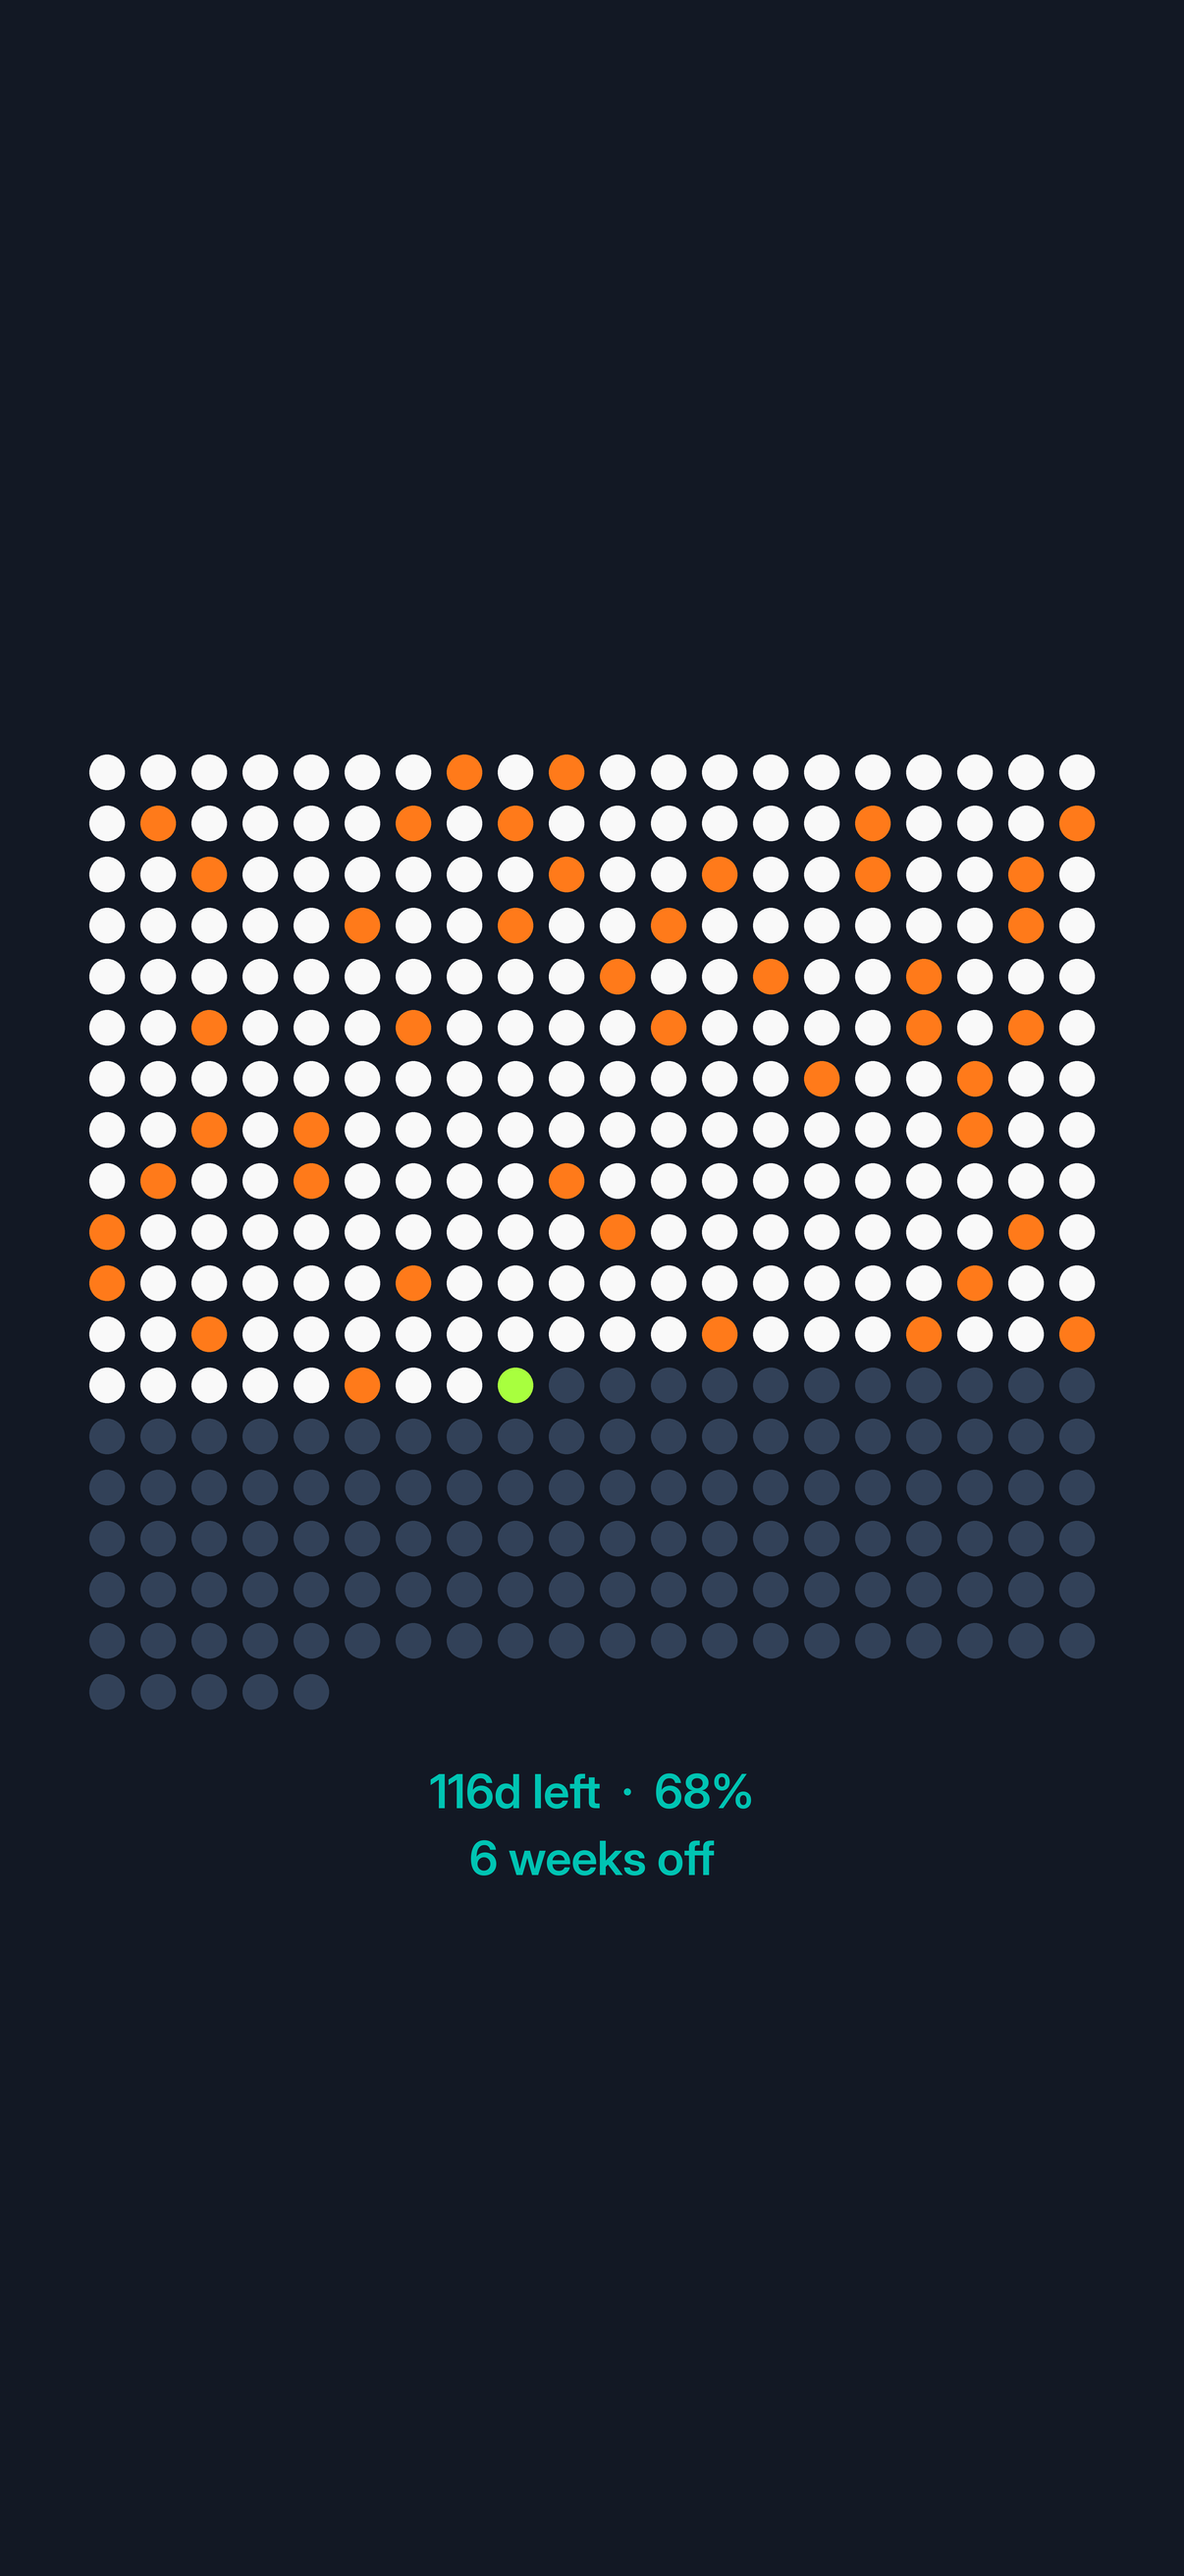
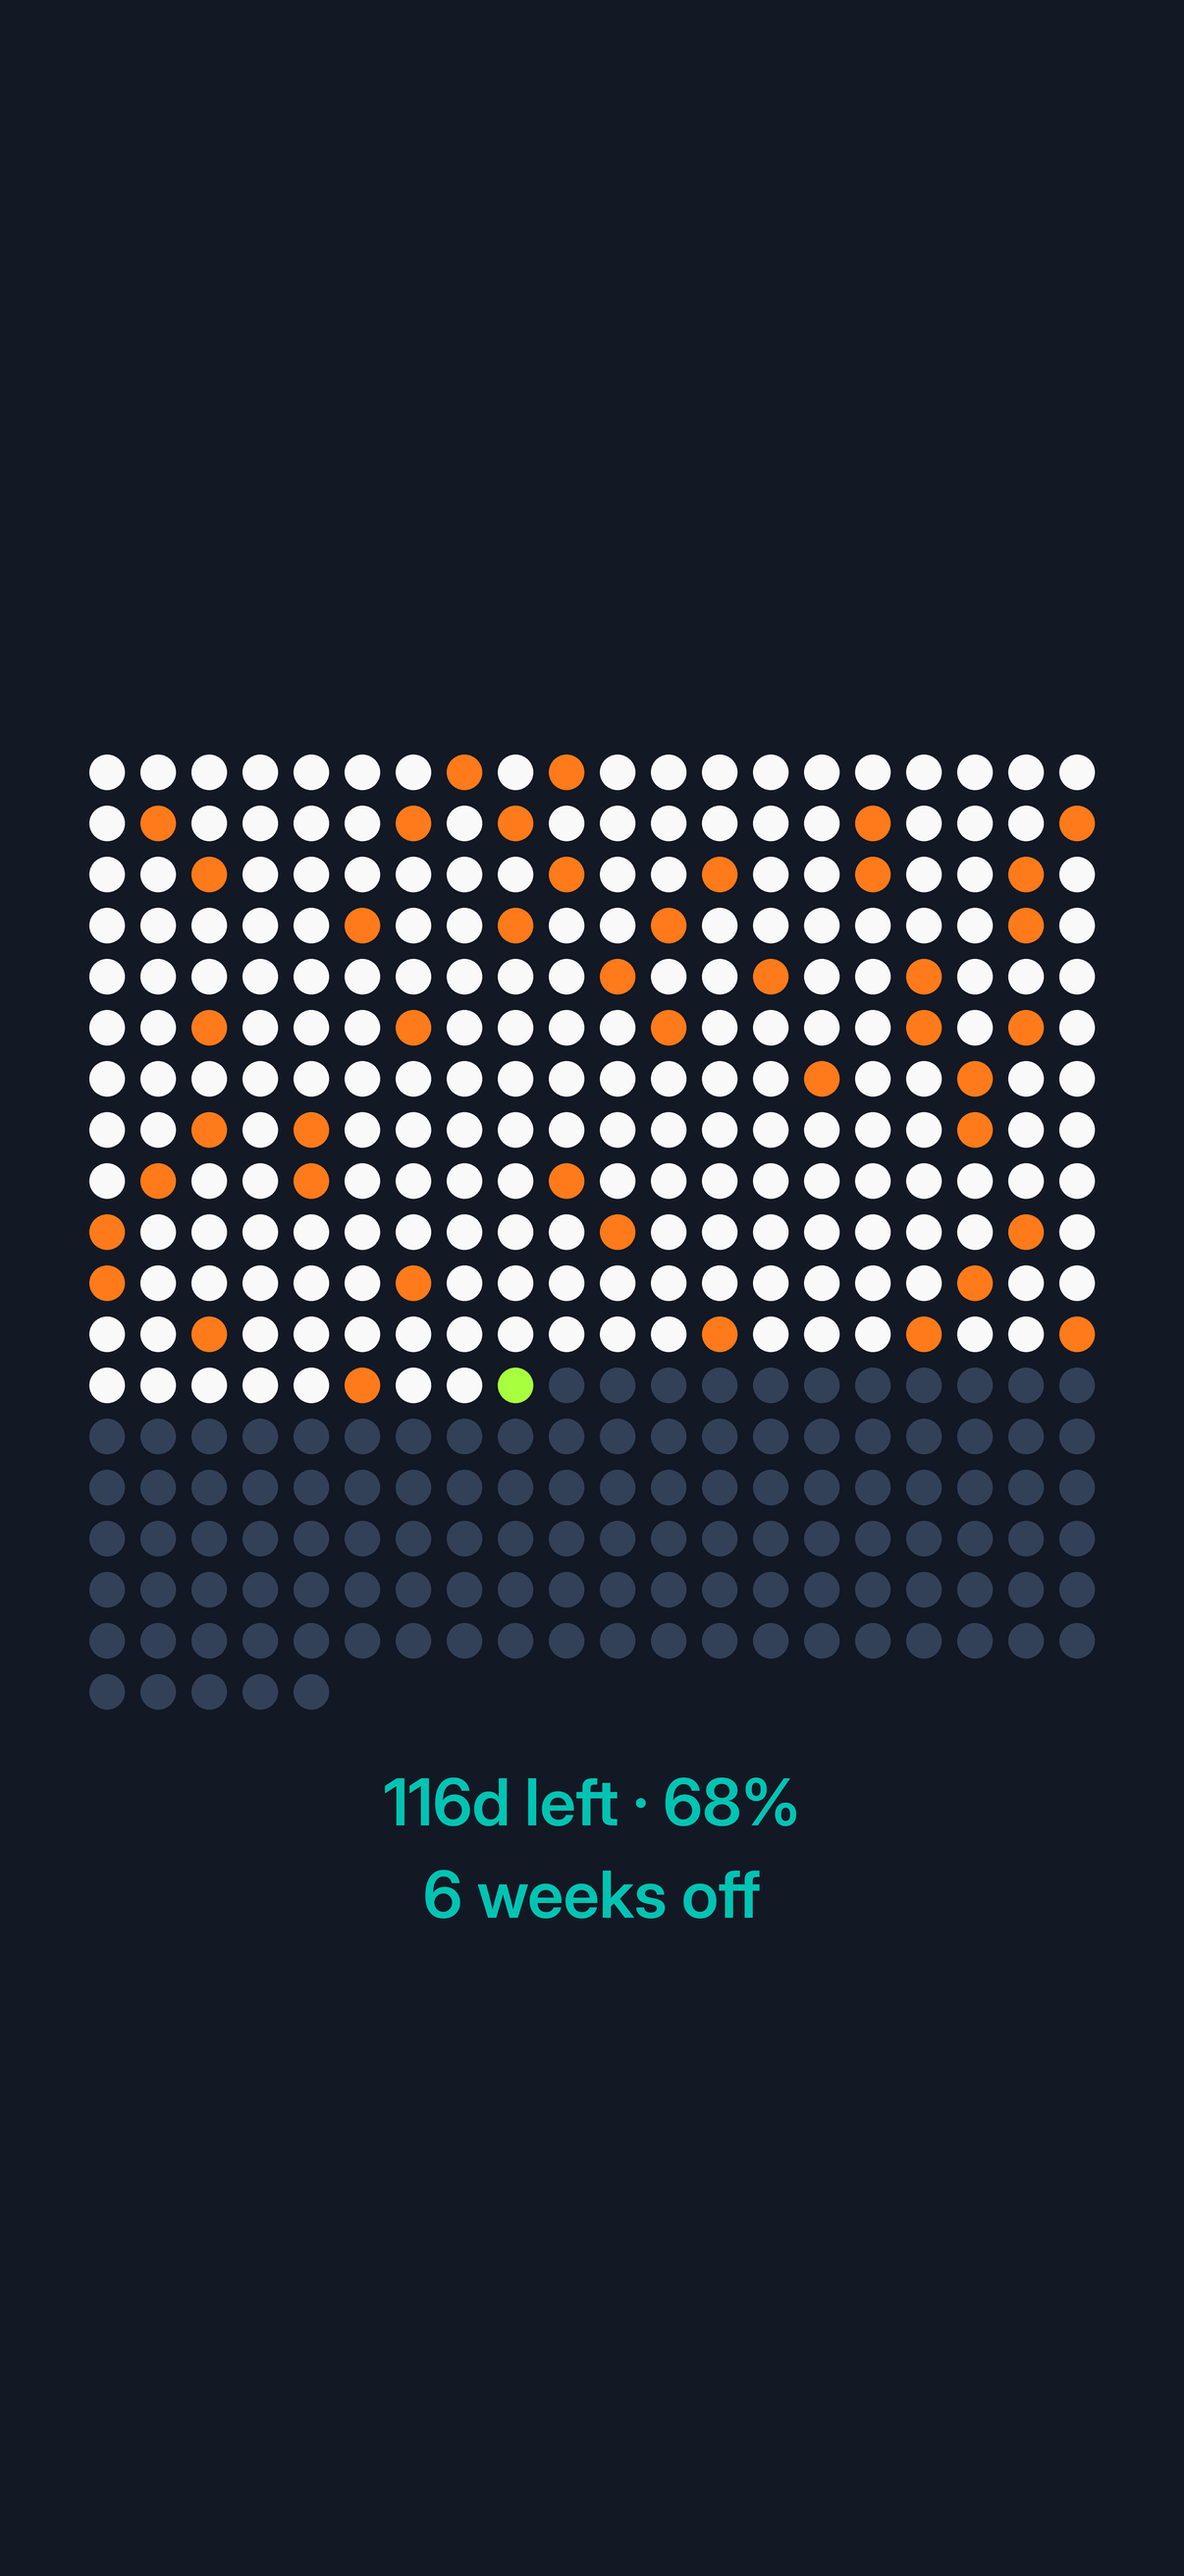
Match lock screen stat text to the iOS date line
The stat lines read smaller and looser than the "Sun 6 Sep" date iOS draws
above them, so the two didn't look like one screen. Measured off a screenshot,
which is the same 1206x2622 space as the wallpaper:

  iOS date   cap 48px, x-height 35px, word gaps 20px
  before     cap 36px,                word gaps 16px / 25px around the separator

FONT_SIZE 48 -> 66. SF Pro carries a proportionally larger x-height than Inter,
so cap and x-height cannot both match; 66 favours x-height (34 vs 35) since that
drives apparent size, at the cost of 1.5px on cap. LINE_HEIGHT becomes a ratio of
FONT_SIZE so it stays right if the size is retuned.

The separator's double spaces scaled to a ~34px gap against the date line's 20px,
so they drop to single spaces, measuring 19-22px. Applied to the home screen too
so both wallpapers keep the same rhythm; its font size is unchanged, having no
date line to match.

Verified on the render: cap-height band and word gaps match the reference, text
stays centred on x=603, and the block's lowest ink sits at y=1952, clear of the
weather widget at y=2062.

Claude-Session: https://claude.ai/code/session_01TCBdb7fw5HZcemW4gDLYy4

Changed region(s): [[0.3375, 0.6796, 0.675, 0.7414]]

diff --git a/generate_background.py b/generate_background.py
@@ -27,10 +27,11 @@ DOT_RADIUS = 18
 DOT_SPACING = 52
 TODAY_RING_WIDTH = 5
 
-# Text
-FONT_SIZE = 48
+# Text. FONT_SIZE 66 puts Inter's cap height at 48px, matching the "Sun 6 Sep"
+# date line iOS draws above this on the lock screen (measured off a screenshot).
+FONT_SIZE = 66
 TEXT_GAP = 72
-LINE_HEIGHT = 68
+LINE_HEIGHT = round(FONT_SIZE * 1.42)
 GRID_TOP_FRAC = 0.30
 
 OUTPUT_PATH = "docs/background.png"
@@ -91,7 +92,7 @@ def generate_image(output_path=OUTPUT_PATH, today=None, workout_dates=None):
 
     week_word = "week" if weeks_off == 1 else "weeks"
     lines = [
-        f"{days_remaining}d left  ·  {pct}%",
+        f"{days_remaining}d left · {pct}%",
         f"{weeks_off} {week_word} off",
     ]
     font = load_font(FONT_SIZE * s)

diff --git a/generate_home.py b/generate_home.py
@@ -91,7 +91,7 @@ def generate_image(output_path=OUTPUT_PATH, today=None, workout_dates=None):
         if i == day_of_month - 1 and is_workout:
             draw.ellipse(bounds, outline=DOT_TODAY, width=TODAY_RING_WIDTH * s)
 
-    stats_label = f"{days_remaining}d left  ·  {pct}%"
+    stats_label = f"{days_remaining}d left · {pct}%"
     font_stats = load_font(FONT_SIZE_STATS * s)
     bbox = draw.textbbox((0, 0), stats_label, font=font_stats)
     stats_x = (CANVAS_WIDTH * s - (bbox[2] - bbox[0])) // 2
